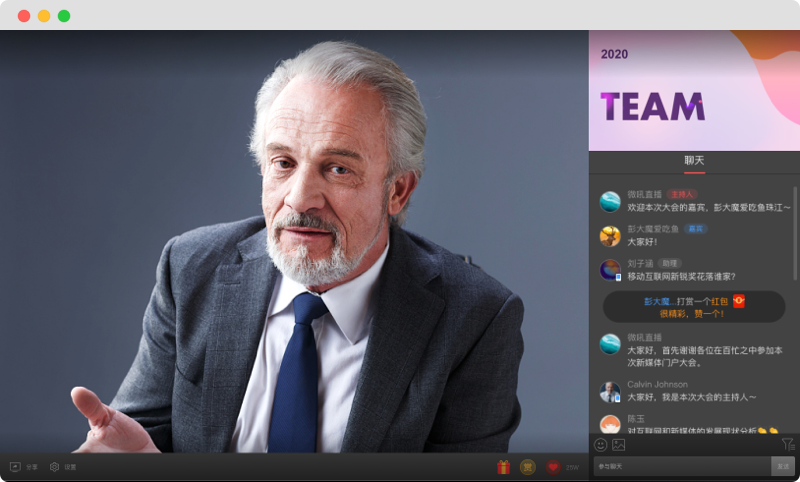
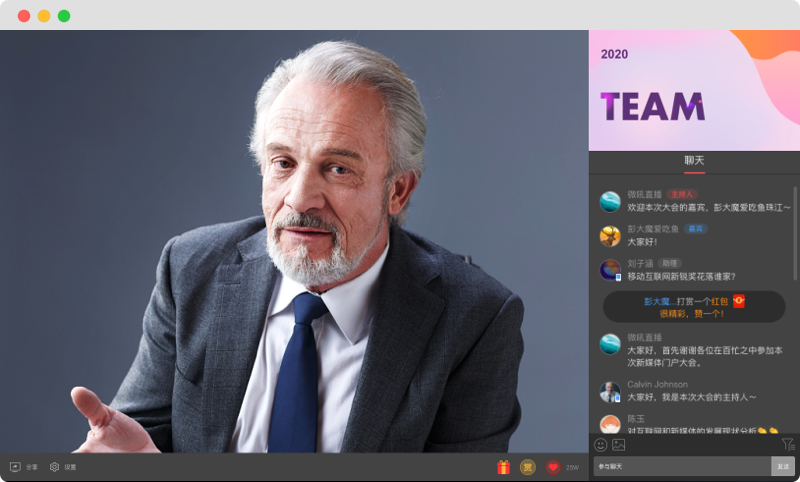
开屏海报，临时存储

Changed region(s): [[0.0, 0.0622, 1.0, 0.1556], [0.0, 0.9025, 1.0, 0.9959]]

diff --git a/src/views/LiveModule/Brands/posterCard.vue b/src/views/LiveModule/Brands/posterCard.vue
@@ -82,8 +82,9 @@
                 <!-- <img class="hb_bg_default hb_bg"  src="../../../common/images/official/poster.png" alt="" /> -->
                 <img class="hb_bg_default" src="../../../common/images/poster/pc_yl@2x.png" alt=""/>
                 <!-- 开启 并且有图-->
-                <div class="pc-poster-wrap"  v-if="status <= 0">
-                  <img class="hb_img v-poster-preview" :src="domain_url" alt="" v-show="domain_url"/>
+                <div class="pc-poster-wrap">
+                  <img class="hb_img v-poster-preview" :src="domain_url" alt="" v-if="status <= 0 && domain_url"/>
+                  <img class="hb_img v-poster-preview" src="../../../common/images/poster/pc_poster_default.png"  v-if="!domain_url" />
                 </div>
                 <el-button class="poster-btn" size="mini" round @click="closePoster">{{alertType > 0 ? '5s后关闭' : '关闭'}}</el-button>
               </div>
@@ -91,14 +92,15 @@
           </div>
           <!--PC预览,end-->
           <!--手机预览，begin-->
-          <div class="official-app null-page" v-show="switchType === 'app'">
+          <div class="official-app" v-show="switchType === 'app'">
             <span class="title">开屏海报</span>
             <!-- 开屏海报 -->
             <div class="hb_app">
-              <div class="poster-img" v-if="status <= 0 && showPoster && domain_url">
-                <img :src="domain_url" alt="">
+              <div class="poster-img">
+                <img class="domain_url" :src="domain_url" alt=""  v-if="status <= 0 && domain_url">
+                <img class="default" src="../../../common/images/poster/phone_poster_default@2x.png"  v-if="!domain_url" />
               </div>
-              <el-button class="poster-btn" size="mini" v-if="status <= 0" round @click="closePoster">{{alertType > 0 ? '5s后关闭' : '关闭'}}</el-button>
+              <el-button class="poster-btn" size="mini" round @click="closePoster">{{alertType > 0 ? '5s 关闭' : '关闭'}}</el-button>
             </div>
           </div>
           <!--手机预览,end-->
@@ -412,7 +414,8 @@ export default {
     }
     .form-phone{
       display: flex;
-      padding: 48px 12px;
+      /* padding: 48px 12px; */
+      padding: 48px 12px 0 12px;
       background: #fff;
       min-height: 730px;
       border-radius: 4px;
@@ -460,12 +463,19 @@ export default {
         top: 50px;
         right: 16px;
         background: transparent; */
-        position: absolute;
+        /* 第二次 position: absolute;
         top: 24px;
         right: 0;
         background: rgba(0, 0, 0, 0.4);
         width: 106px;
-        height: 195px;
+        height: 195px; */
+        position: absolute;
+        top: 15px;
+        right: 0;
+        background: rgba(0, 0, 0, 0.4);
+        width: 106px;
+        height: 227px;
+        border-bottom-right-radius: 22px;
       }
       .v-poster-preview {
         /* display: inline-block;
@@ -477,10 +487,16 @@ export default {
         transform: translate(-50%, -50%);
         margin-top: 0px;
         object-fit: cover; */
-        width: 100%;
+        /* 第二次 width: 100%;
         height: 100%;
         object-fit: scale-down;
+        margin: 0 0; */
+        width: 100%;
+        height: 100%;
+        -o-object-fit: scale-down;
+        object-fit: fill;
         margin: 0 0;
+        border-bottom-right-radius: 3px;
       }
       .v-code-preview {
         position: absolute;
@@ -501,22 +517,36 @@ export default {
       .hb_pc {
         .poster-btn {
           position: absolute;
-          right: 0;
-          top: 24px;
+          right: calc(50% - 144px);
+          top: 97px;
+          width: 80px;
+          height: 32px;
+          background: #1A1A1A;
+          border-radius: 25px;
+          opacity: 0.65;
+          padding: 0 0;
+          margin: 0 0;
+          text-align: center;
+          font-size: 16px;
+          font-weight: 400;
+          color: #FFFFFF;
+          line-height: 22px;
+          border: 1px solid #1A1A1A;
+          &:hover {
+            border: 1px solid #1A1A1A;
+          }
         }
       }
     }
     .official-app{
-      width: 326px;
-      height: 631px;
-      background-image: url('../../../common/images/poster/phone-model.png');
+      width: 420px;
+      height: 690px;
+      margin-top: -24px;
+      margin-left: -47px;
+      background-image: url('../../../common/images/poster/phone-poster@2x.png');
       background-size: 100%;
       background-position: center;
-      &.null-page {
-        background-image: url('../../../common/images/poster/phone-model.png');
-      }
       background-size: cover;
-      margin-top: -24px;
       position: relative;
       .title{
         display: inline-block;
@@ -524,65 +554,72 @@ export default {
         height: 30px;
         line-height: 30px;
         text-align: center;
-        color: #555;
+        font-weight: 400;
+        color: #666666;
         background: #f7f7f7;
         position: absolute;
-        top: 38px;
+        top: 42px;
         left: 50%;
         transform: translateX(-50%);
       }
-      .img-code{
-        position: absolute;
-        height: 142px;
-        width: 142px;
-        left: 53%;
-        top: 50%;
-        /*border: 1px solid #ccc;*/
-        transform: translate(-50%, -50%);
-        background: transparent;
-        img{
-          width: 100%;
-          height: 100%;
-          object-fit: scale-down;
-        }
-      }
-      .img-code-btn {
-        position: absolute;
-        height: 80px;
-        width: 80px;
-        left: 50%;
-        top: 50%;
-        transform: translate(-50%, -50%);
-        img {
-          width: 100%;
-          height: 100%;
-          border-radius: 100%;
-        }
-      }
       .poster-img {
         position: absolute;
-        height: 520px;
-        width: 284px;
-        left: 22px;
-        top: 78px;
-        border-bottom-right-radius: 16px;
-        border-bottom-left-radius: 16px;
-        overflow: hidden;
-        img {
+        display: block;
+        margin: 0;
+        right: calc(50% - 156px);
+        top: 85px;
+        text-align: center;
+        width: 312px;
+        height: 568px;
+        border-bottom-right-radius: 26px;
+        border-bottom-left-radius: 26px;
+        .domain_url {
+          display: inline-block;
+          position: absolute;
+         /*  -o-object-fit: cover;
+          object-fit: cover; */
+          -o-object-fit: fill;
+          object-fit: fill;
+          max-height: 568px;
+          border-bottom-right-radius: 26px;
+          border-bottom-left-radius: 26px;
+          right: calc(50% - 156px);
+          width: 100%;
+          height: 100%;
+        }
+        .default {
           display: inline-block;
           position: absolute;
           top: 50%;
           left: 50%;
           transform: translate(-50%, -50%);
           object-fit:cover;
-          max-width: 284px;
-          max-height: 520px;
+          max-width: 312px;
+          max-height: 568px;
+          border-bottom-right-radius: 26px;
+          border-bottom-left-radius: 26px;
         }
       }
       .poster-btn {
         position: absolute;
-        right: 20px;
-        top: 90px;
+        right: calc(50% - 144px);
+        top: 97px;
+        width: 80px;
+        height: 32px;
+        background: #1A1A1A;
+        border-radius: 25px;
+        opacity: 0.65;
+        padding: 0 0;
+        margin: 0 0;
+        text-align: center;
+        font-size: 16px;
+        font-weight: 400;
+        color: #FFFFFF;
+        line-height: 22px;
+        border: 1px solid #1A1A1A;
+        &:hover {
+          border: 1px solid #1A1A1A;
+        }
       }
     }
   }

diff --git a/src/views/LiveModule/Brands/officialCard.vue b/src/views/LiveModule/Brands/officialCard.vue
@@ -96,7 +96,9 @@
             <span class="title">公众号</span>
             <!-- 公众号 -->
             <div class="gzh_app_mask" v-if="!(alertType > 0)"></div>
-            <div class="gzh_app_close" v-if="!(alertType > 0)"></div>
+            <div class="gzh_app_close" v-if="!(alertType > 0)">
+              <i class="iconfont-v3 saasicon_close"></i>
+            </div>
             <div class="gzh_app"  v-if="!(alertType > 0)">
               <div class="gzh_img_layout">
                 <div class="img-code v-code-preview app-preview">
@@ -419,7 +421,8 @@ export default {
     }
     .form-phone{
       display: flex;
-      padding: 48px 12px;
+      /* padding: 48px 12px; */
+      padding: 48px 12px 0 12px;
       background: #fff;
       min-height: 730px;
       border-radius: 4px;
@@ -641,7 +644,14 @@ export default {
         opacity: 0.6;
       }
       .gzh_app_close {
-
+        position: absolute;
+        display: block;
+        width: 16px;
+        height: 16px;
+        font-size: 16px;
+        top: calc(50% - 105px);
+        right: calc(50% - 81px);
+        color: #ffffff;
       }
       .gzh_app {
         position: absolute;
